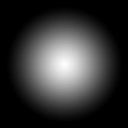
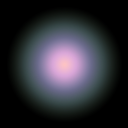
updated lights demo

Changed region(s): [[0.2188, 0.2188, 0.7812, 0.7812]]

diff --git a/BonTest/demos/demo17_effects.cpp b/BonTest/demos/demo17_effects.cpp
@@ -78,9 +78,9 @@ namespace demo17_effects
 			bon::PointF origin(0.5f, 0.5f);
 			Gfx().DrawImage(_lightImage, Input().CursorPosition(), &bon::PointI(512, 512), bon::BlendModes::Additive, nullptr, &origin, 0, nullptr);
 
-			// paint extra red and blue lights
+			// paint extra red and purple lights
 			Gfx().DrawImage(_lightImage, bon::PointF(680, 265), &bon::PointI(256, 256), bon::BlendModes::Additive, nullptr, &origin, 0, &bon::Color(1, 0, 0, 1));
-			Gfx().DrawImage(_lightImage, bon::PointF(480, 165), &bon::PointI(256, 256), bon::BlendModes::Additive, nullptr, &origin, 0, &bon::Color(0, 0.1f, 1, 1));
+			Gfx().DrawImage(_lightImage, bon::PointF(382, 165), &bon::PointI(256, 256), bon::BlendModes::Additive, nullptr, &origin, 0, &bon::Color(1, 0.1f, 1, 1));
 
 			// draw scene background
 			Gfx().SetRenderTarget(nullptr);
